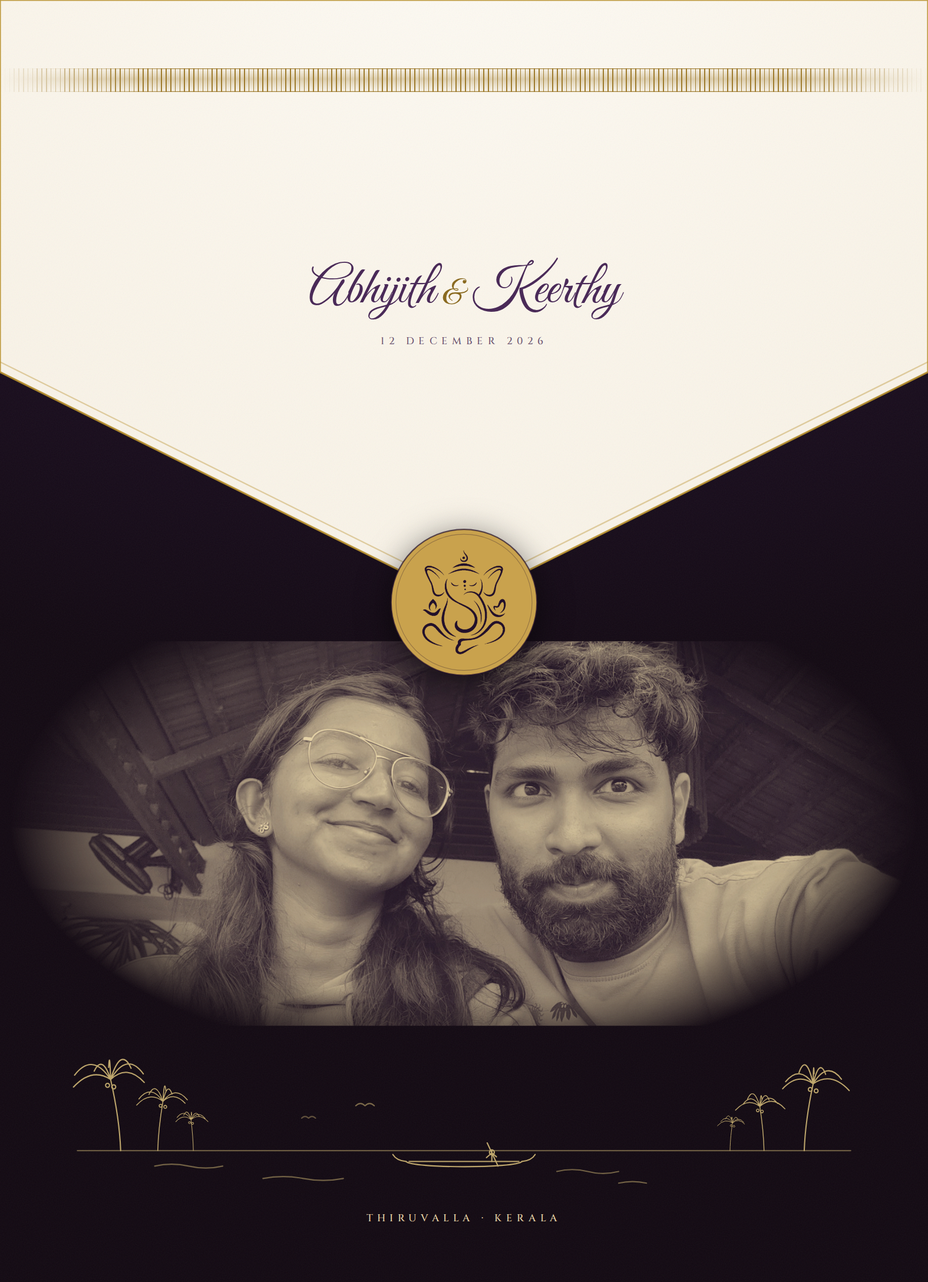
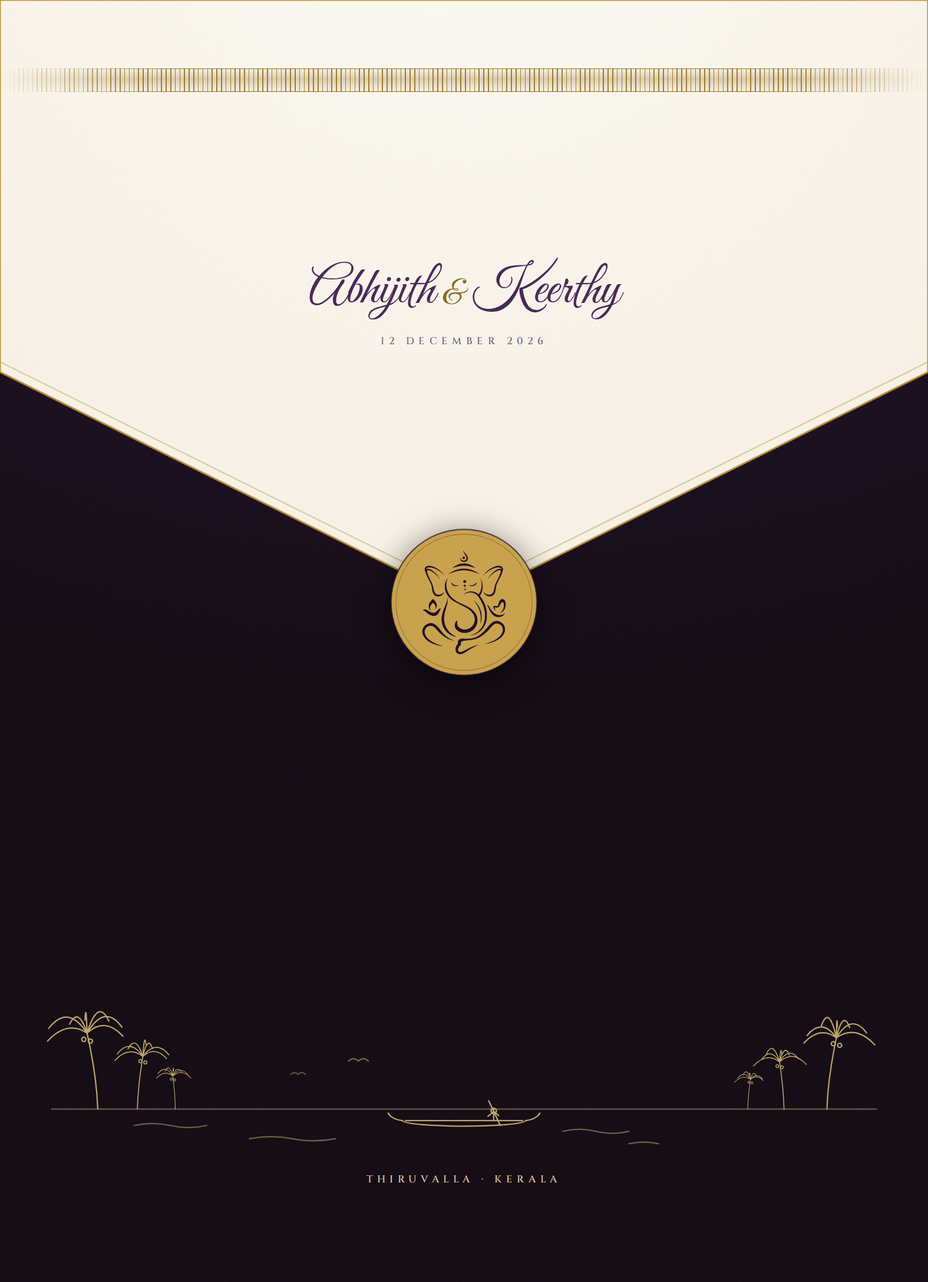
Remove the photograph from the envelope back
The plum body is now plain: the ivory flap, the Ganapati seal on the fold, and
the backwater line-art along the foot. With the photo gone the foot was
floating in a lot of empty plum, so the line-art runs wider and sits higher —
it reads as a horizon anchoring the panel rather than a detail adrift in it.

That left candid.jpg and candid-ivory.jpg unreferenced, so build_candid() and
both files go too rather than generating 750KB of unused assets on every run.
Both are in the history if the photo is ever wanted back.

Claude-Session: https://claude.ai/code/session_01U3eNzvzbkYwe2F9QhNWExs

diff --git a/invitation/envelope-back.html b/invitation/envelope-back.html
@@ -14,36 +14,6 @@
      That does mean a two-sided print. See the die-line note.
      --------------------------------------------------------------------- */
 
-  /* the photo lives on .sheet (not .inner) so it runs into the bleed */
-  .photo {
-    position: absolute;
-    inset: 0;
-    z-index: 0;
-  }
-
-  /* A band, not a full bleed — it should read as a memory surfacing through
-     the plum, and it has to clear the line-art at the foot. */
-  .photo img {
-    position: absolute;
-    left: 0;
-    right: 0;
-    top: 50%;
-    width: 100%;
-    height: 30%;
-    object-fit: cover;
-    object-position: 50% 44%;
-    display: block;
-    opacity: 0.9;
-    /* one radial layer rather than two linear ones — multi-layer
-       mask-composite: intersect did not survive the renderer */
-    mask-image: radial-gradient(
-      ellipse 49% 64% at 50% 46%,
-      #000 52%,
-      rgba(0, 0, 0, 0.92) 74%,
-      transparent 100%
-    );
-  }
-
   /* --- flap -------------------------------------------------------------- */
 
   .flap {
@@ -133,9 +103,9 @@
 
   .foot {
     position: absolute;
-    left: 84px;
-    right: 84px;
-    bottom: 62px;
+    left: 56px;
+    right: 56px;
+    bottom: 104px;
     text-align: center;
   }
 
@@ -154,10 +124,6 @@
 </head>
 <body>
 <div class="sheet envelope">
-  <div class="photo">
-    <img src="assets/candid.jpg" alt="">
-  </div>
-
   <div class="flap"></div>
 
   <div class="flap-edge">

diff --git a/invitation/build/prepare-assets.py b/invitation/build/prepare-assets.py
@@ -93,32 +93,6 @@ def build_hero():
     print("hero.jpg", im.size)
 
 
-def build_candid():
-    """Envelope back: an ordinary evening out, pushed to a plum/champagne duotone.
-
-    Cut to 2.42:1, the ratio of the band it sits in, so the mask does the
-    shaping rather than object-fit throwing away half the frame.
-    """
-    im = Image.open(os.path.join(SRC, "engagement-13.jpg")).convert("RGB")
-    im = cover(im, 1800, 744, focus=0.40)
-    im = duotone(im, (26, 13, 32), CHAMPAGNE, strength=1.0)
-    im = ImageEnhance.Brightness(im).enhance(1.06)
-    im = ImageEnhance.Contrast(im).enhance(1.04)
-    im.save(os.path.join(OUT, "candid.jpg"), quality=92, subsampling=0)
-    print("candid.jpg", im.size)
-
-    # The envelope prints on ivory, so the same frame needs the ramp the other
-    # way up: plum in the shadows, ivory in the highlights, so it dissolves
-    # into the paper instead of sitting on it as a dark rectangle.
-    iv = Image.open(os.path.join(SRC, "engagement-13.jpg")).convert("RGB")
-    iv = cover(iv, 1800, 744, focus=0.40)
-    iv = duotone(iv, (58, 32, 70), (250, 245, 233), strength=1.0)
-    iv = ImageEnhance.Contrast(iv).enhance(1.12)
-    iv = ImageEnhance.Brightness(iv).enhance(0.98)
-    iv.save(os.path.join(OUT, "candid-ivory.jpg"), quality=92, subsampling=0)
-    print("candid-ivory.jpg", iv.size)
-
-
 def build_qr():
     """One QR per printed version of the card, as a cream plaque.
 
@@ -208,6 +182,5 @@ def build_seal_figure():
 
 if __name__ == "__main__":
     build_hero()
-    build_candid()
     build_qr()
     build_seal_figure()

diff --git a/invitation/README.md b/invitation/README.md
@@ -13,7 +13,7 @@ includes `src/`, so this folder is inert as far as the site is concerned.
 | `card-back-all.html` | 5 × 7 in | **All four celebrations.** For close family and friends |
 | `card-back-public.html` | 5 × 7 in | **The wedding day only.** The general-invite version |
 | `envelope-front.html` | 5.25 × 7.25 in | Address side — ruled lines for the guest's name |
-| `envelope-back.html` | 5.25 × 7.25 in | Sealed side — flap, Ganapati seal, a candid, backwaters |
+| `envelope-back.html` | 5.25 × 7.25 in | Sealed side — ivory flap, Ganapati seal, backwaters |
 | `envelope-diecut.html` | 7.55 × 12.15 in | The flat sheet the envelope is cut and folded from |
 
 ## Bride's side and groom's side
@@ -56,14 +56,16 @@ Two things did not simply invert:
 - **The gold had to get darker.** `#e8cd82` is built to glow out of a dark
   ground and all but vanishes on ivory, so the ivory theme uses `#8a6a20` and
   friends.
-- **The photo needed its own file.** `candid.jpg` is toned ivory-out-of-plum;
-  `candid-ivory.jpg` is the same frame toned plum-out-of-ivory, so it dissolves
-  into the paper instead of sitting on it as a dark rectangle.
-
 - **The seal is struck gold-on-plum, not the reverse.** It straddles the fold,
   so its top half lies on ivory and its bottom half on plum. A dark disc reads
   on the ivory and disappears on the plum; a gold disc with a plum figure holds
   against both.
+
+The envelope back carries no photograph — the plum body is deliberately plain,
+with only the seal on the fold and the backwater line-art along the foot. (An
+earlier version had a duotoned candid there; `build_candid()` in
+`prepare-assets.py` generated it, and both are in the git history if it is ever
+wanted back.)
 
 **The envelope is a two-sided print.** On a real envelope the flaps fold away
 from the front panel, so the ivory flap you see on the sealed back is the
